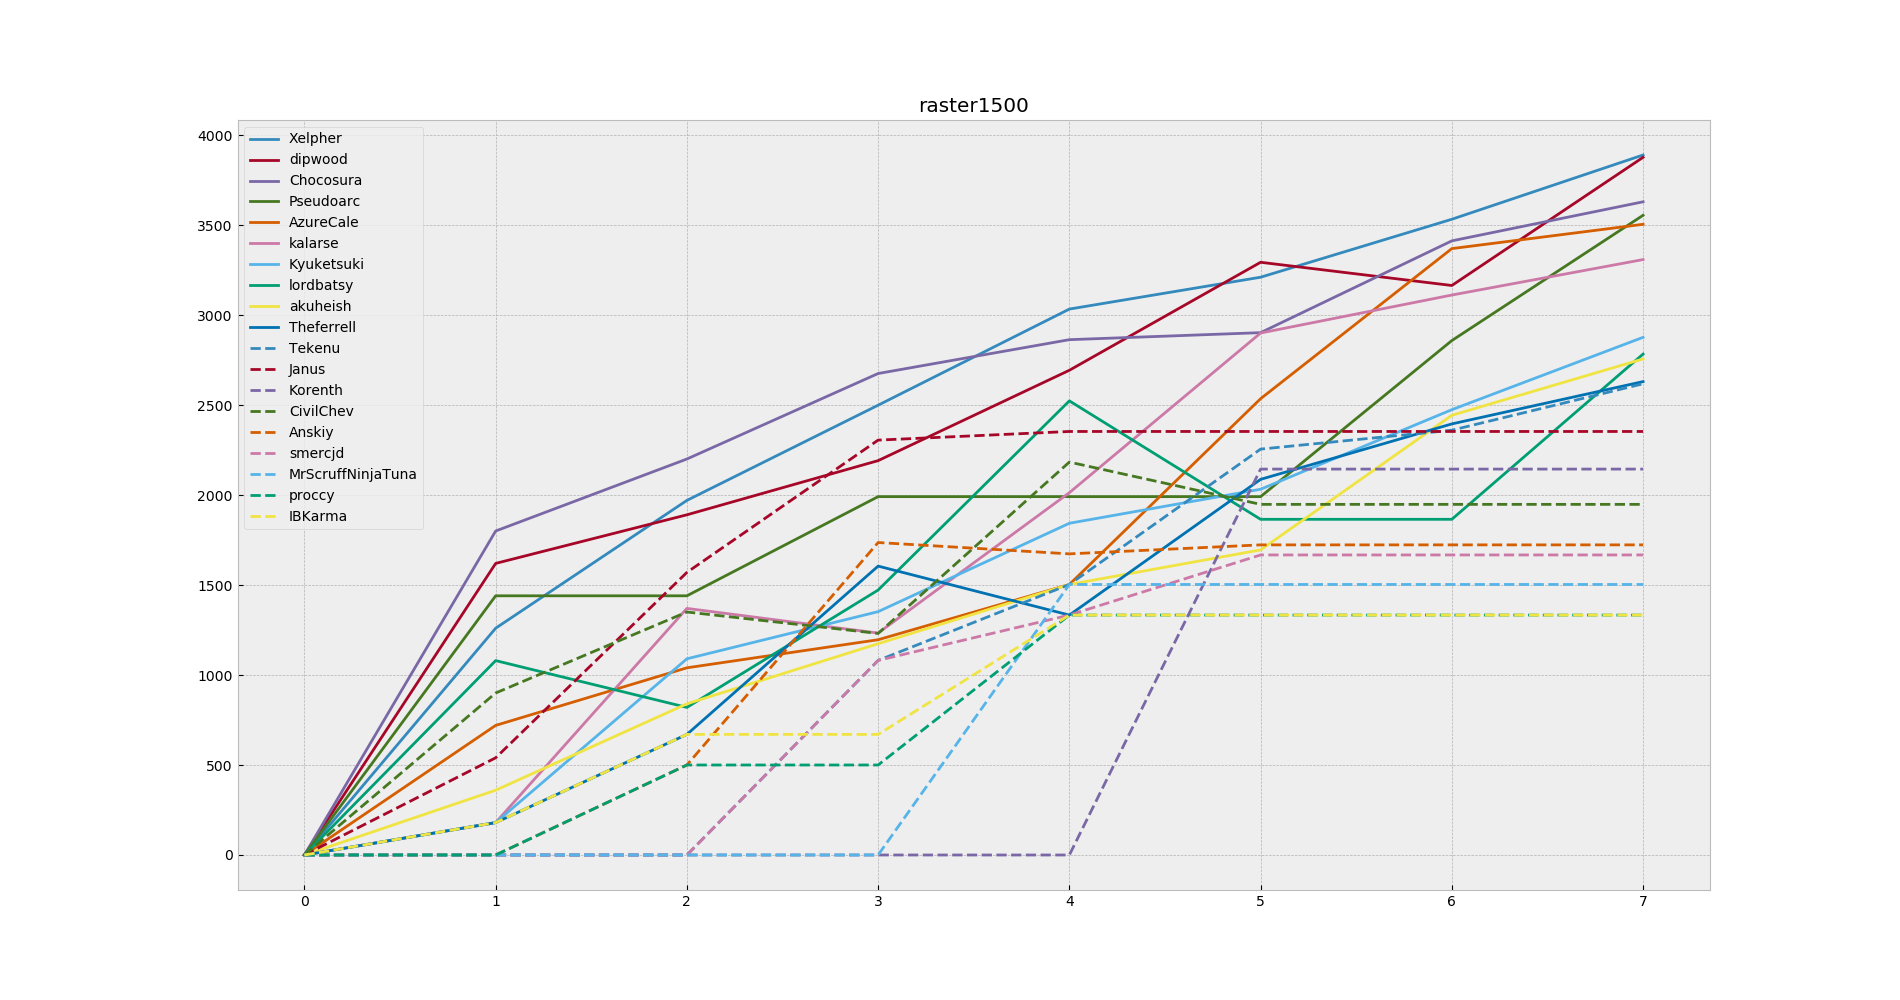
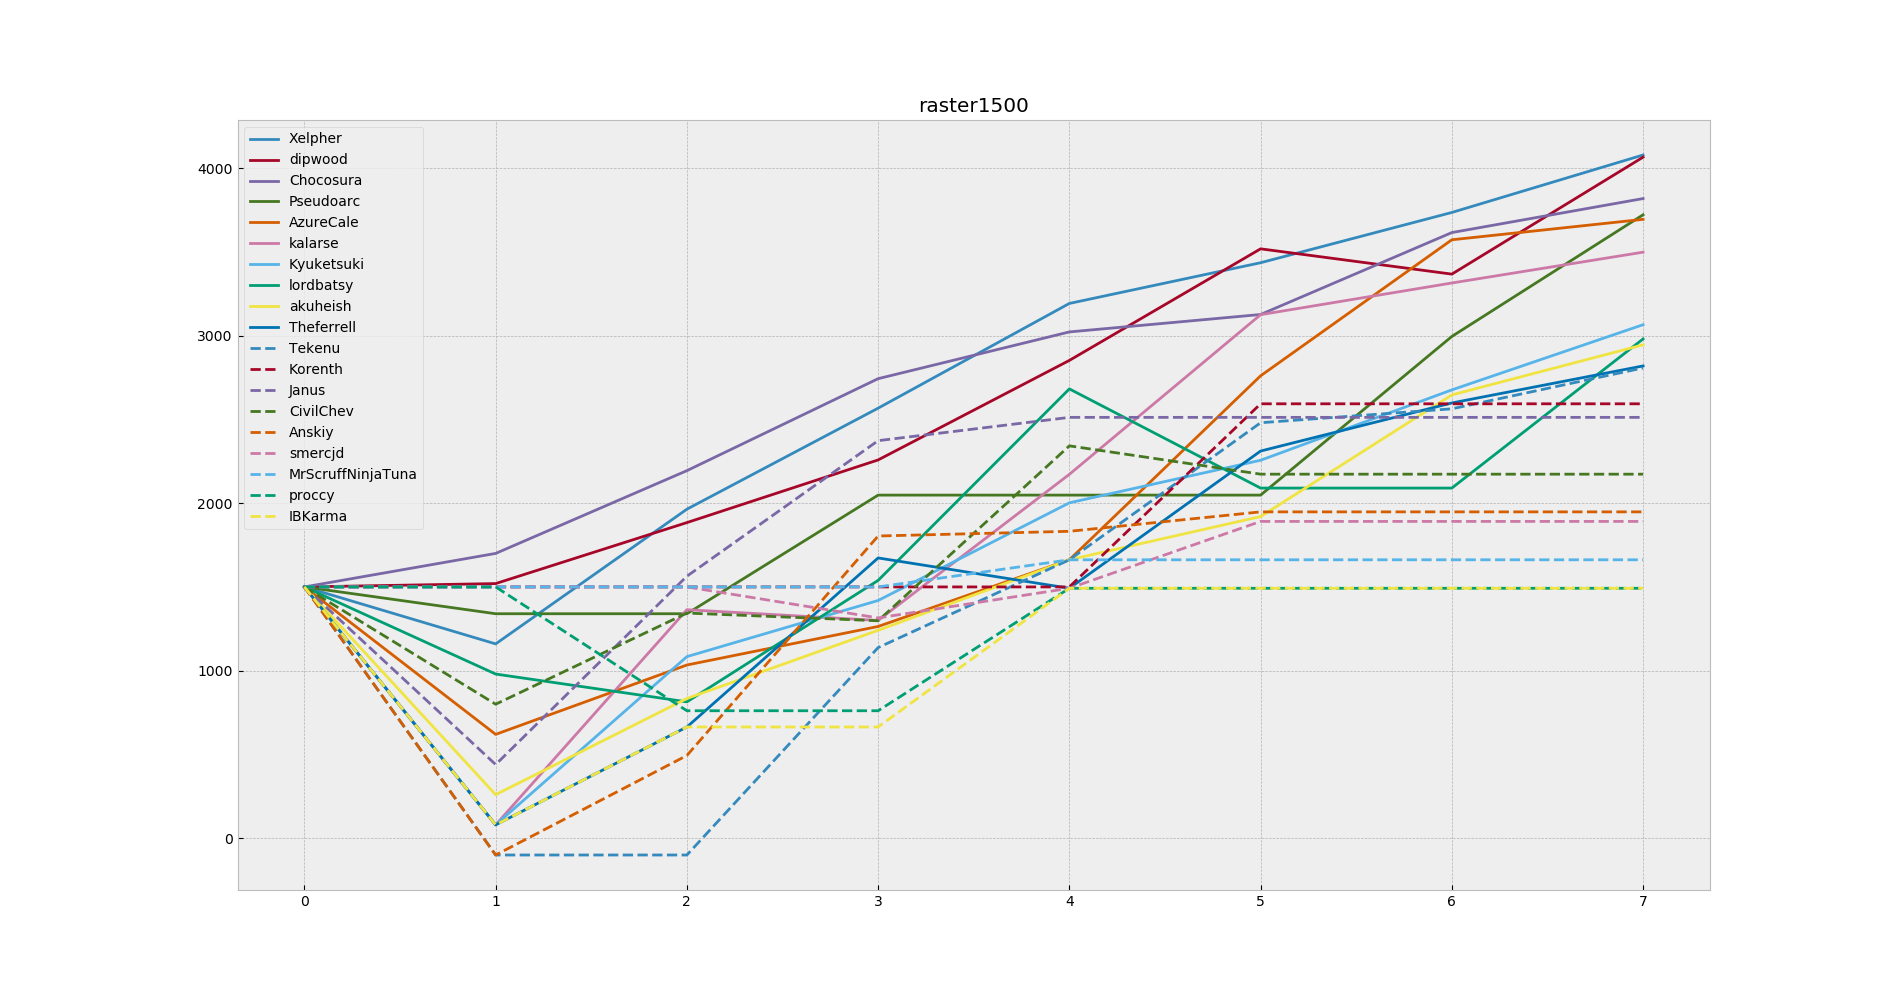
fix raster1500 again

diff --git a/raster1500.py b/raster1500.py
@@ -3,6 +3,7 @@ import util
 
 def raceranks(races, startval=1500, maxscore=100, minscore=10, step=-10, forfeitscore=0):
     return rasterlogic.raceranks(races,startval=startval,maxscore=maxscore,minscore=minscore,step=step,forfeitscore=forfeitscore)
+
 if __name__ == "__main__":
     import races
     import sys

diff --git a/cmdline.py b/cmdline.py
@@ -41,6 +41,7 @@ def get_settings(logic):
     elif lt == "raster1500":
         import raster1500
         raceranks = raster1500.raceranks
+        startval = 1500
     elif lt == "rasterfantasy":
         import rasterfantasy
         raceranks = rasterfantasy.raceranks
